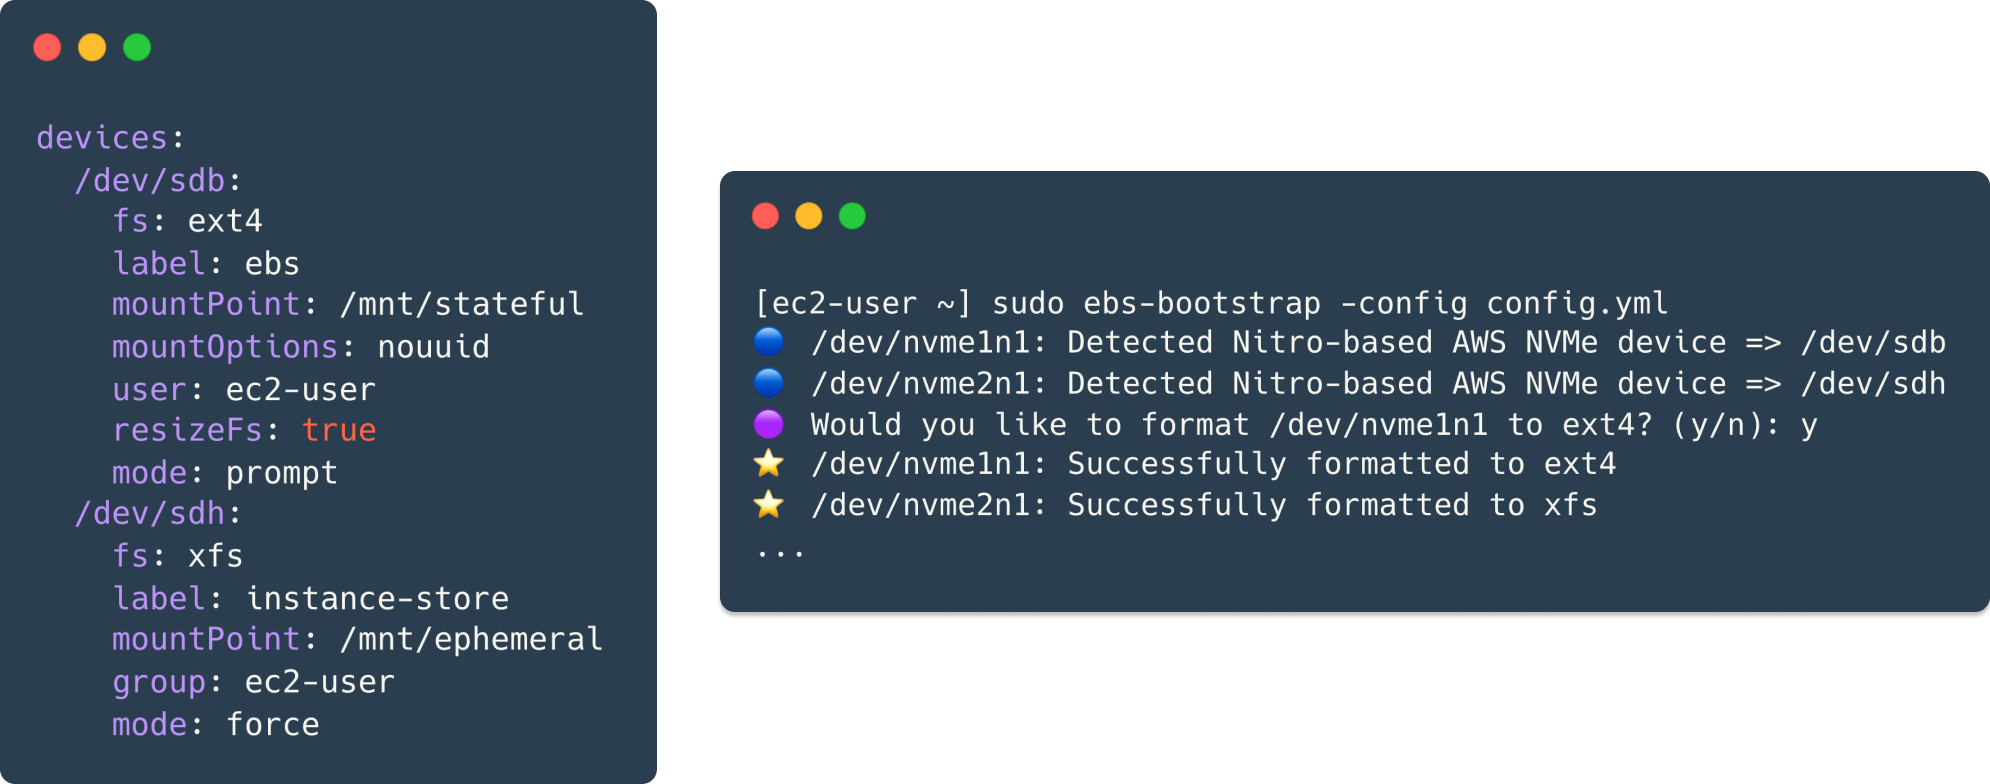
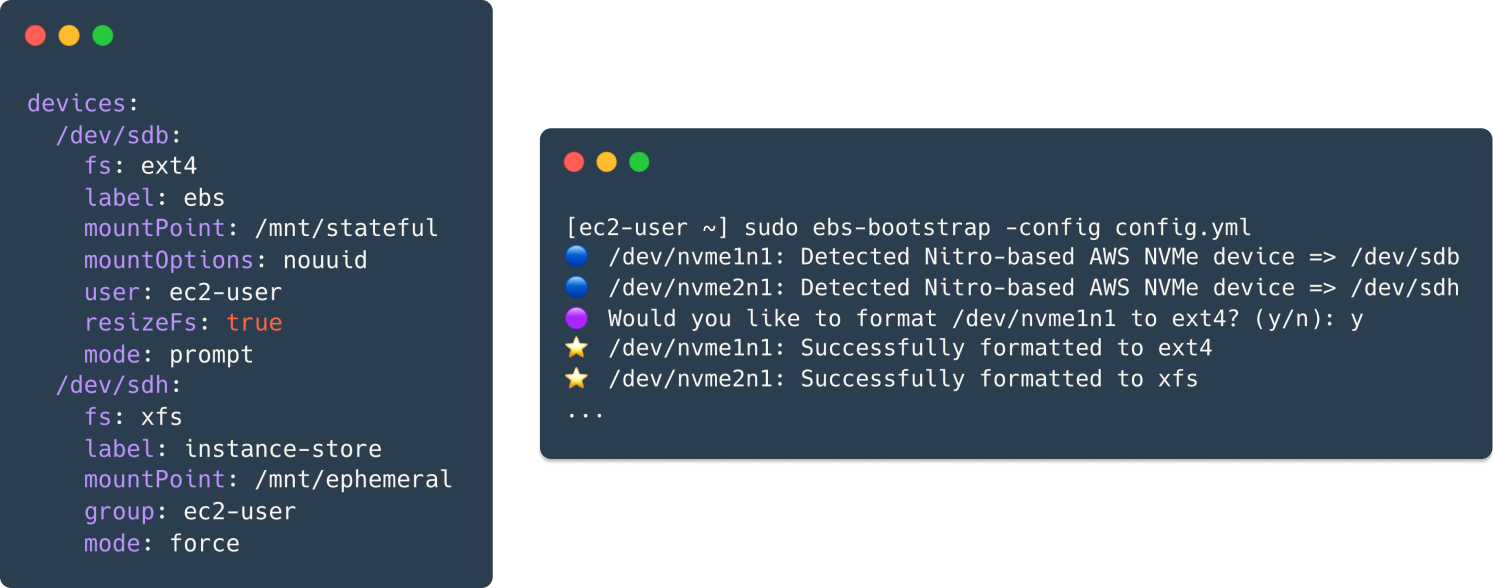
(docs): Grammatical corrections

diff --git a/internal/action/format.go b/internal/action/format.go
@@ -39,9 +39,9 @@ func (a *FormatDeviceAction) Prompt() string {
 }
 
 func (a *FormatDeviceAction) Refuse() string {
-	return fmt.Sprintf("Refused to format to %s", a.fileSystemService.GetFileSystem())
+	return fmt.Sprintf("Refused to format %s to %s", a.device, a.fileSystemService.GetFileSystem())
 }
 
 func (a *FormatDeviceAction) Success() string {
-	return fmt.Sprintf("Successfully formatted to %s", a.fileSystemService.GetFileSystem().String())
+	return fmt.Sprintf("Successfully formatted %s to %s", a.device, a.fileSystemService.GetFileSystem().String())
 }

diff --git a/internal/action/label_test.go b/internal/action/label_test.go
@@ -36,12 +36,12 @@ func TestLabelDeviceActionMessages(t *testing.T) {
 		{
 			Name:           "Refuse",
 			Message:        lda.Refuse(),
-			ExpectedOutput: "Refused to label to 'example'",
+			ExpectedOutput: "Refused to label /dev/xvdf to 'example'",
 		},
 		{
 			Name:           "Success",
 			Message:        lda.Success(),
-			ExpectedOutput: "Successfully labelled to 'example'",
+			ExpectedOutput: "Successfully labelled /dev/xvdf to 'example'",
 		},
 	}
 	for _, subtest := range subtests {

diff --git a/internal/action/format_test.go b/internal/action/format_test.go
@@ -36,12 +36,12 @@ func TestFormatDeviceActionMessages(t *testing.T) {
 		{
 			Name:           "Refuse",
 			Message:        fda.Refuse(),
-			ExpectedOutput: "Refused to format to ext4",
+			ExpectedOutput: "Refused to format /dev/xvdf to ext4",
 		},
 		{
 			Name:           "Success",
 			Message:        fda.Success(),
-			ExpectedOutput: "Successfully formatted to ext4",
+			ExpectedOutput: "Successfully formatted /dev/xvdf to ext4",
 		},
 	}
 	for _, subtest := range subtests {

diff --git a/internal/action/label.go b/internal/action/label.go
@@ -41,9 +41,9 @@ func (a *LabelDeviceAction) Prompt() string {
 }
 
 func (a *LabelDeviceAction) Refuse() string {
-	return fmt.Sprintf("Refused to label to '%s'", a.label)
+	return fmt.Sprintf("Refused to label %s to '%s'", a.device, a.label)
 }
 
 func (a *LabelDeviceAction) Success() string {
-	return fmt.Sprintf("Successfully labelled to '%s'", a.label)
+	return fmt.Sprintf("Successfully labelled %s to '%s'", a.device, a.label)
 }

diff --git a/README.md b/README.md
@@ -6,16 +6,16 @@
 
 * **Format** a file system
 * **Label** a file system
-* **Resize** a file system (when a threshold is reached)
+* **Resize** a file system
 * **Mount** a block device
-* **Ownership** and **Permissions** management of the mount point
+* Manage **ownership** and **permissions** of the mount point
 
 Currently, the following file systems are supported for querying and modification...
 
 * `ext4`
 * `xfs`
 
-Block device mappings can be [unpredictable](https://docs.aws.amazon.com/AWSEC2/latest/UserGuide/device_naming.html#device-name-limits) for AWS Nitro EC2 Instance types. `ebs-bootstrap` is equipped with the tools to recover the originally assigned block device mappings (`/dev/sd[a-z]`) from the dynamically allocated device names (`/dev/nvme[0-26]n1`) produced by **EBS** and **Instance Store** volumes. The consistent as-code management of block devices, is only possible by the ability of `ebs-bootstrap` to recover a device name that is stable across reboots and instance refreshes.
+Block device mappings can be [unpredictable](https://docs.aws.amazon.com/AWSEC2/latest/UserGuide/device_naming.html#device-name-limits) for AWS Nitro EC2 Instance types. `ebs-bootstrap` is equipped with the tools to recover the originally assigned block device mappings (`/dev/sd[a-z]`) from the dynamically allocated device names (`/dev/nvme[0-26]n1`) produced by **EBS** and **Instance Store** volumes.
 
 ## Build
 
@@ -45,21 +45,19 @@ curl -L \
 sudo install -m755 /tmp/ebs-bootstrap /usr/local/sbin/ebs-bootstrap
 ```
 
-## Modes
+## Documentation
 
-// TODO
-
-## Configuration
-
-// TODO
+<a href="https://github.com/reecetech/ebs-bootstrap/wiki" target="_blank">
+  <img src="https://img.shields.io/badge/github_wiki-%2523121011.svg?style=for-the-badge&logo=github&logoColor=white&color=%23aa82e6">
+</a>
 
 ## Use Cases
 
 ### `systemd`
 
-A potential way of operating `ebs-bootstrap` is through a `systemd` service. This is so we can configure it as a `oneshot` service type that executes after the file system is ready and after `clout-init.service` writes any config files to disk. The latter is essential as `ebs-bootstrap` consumes a config file that is located at `/etc/ebs-boostrap/config.yml` by default. 
+A potential way of operating `ebs-bootstrap` is through a `systemd` service. This is so we can configure it as a `oneshot` service type that executes after the file system is ready and `clout-init.service` writes any config files to disk. The latter is essential as `ebs-bootstrap` consumes a config file that is located at `/etc/ebs-boostrap/config.yml` by default. 
 
-`ExecStopPost=-...` con point towards a script that is executed when the `ebs-bootstrap` service exits on either success or failure. This is a suitable place to include logic to notify an individual that the configured devices failed their relevant healthchecks and the underlying application failed to launch in the process.
+`ExecStopPost=-...` can point towards a script that is executed when the `ebs-bootstrap` service exits on either success or failure. This is a suitable place to include logic to notify an individual that the configured devices failed their relevant healthchecks and the underlying application failed to launch in the process.
 
 ```ini
 [Unit]
@@ -79,17 +77,9 @@ ExecStopPost=-/etc/ebs-bootstrap/post-hook.sh
 WantedBy=multi-user.target
 ```
 
-```
-cat /etc/ebs-bootstrap/post-hook.sh
-#!/bin/sh
-if [ "${EXIT_STATUS}" = "0" ]; then
-    echo "🟢 Post Stop Hook: Success"
-else
-    echo "🔴 Post Stop Hook: Failure"
-fi
-```
+It is then possible to configure another `systemd` service to only start if the `ebs-bootstrap` service is successful. Certain databases support the ability to spread database chunks across multiple devices that need to be mounted to pre-defined directories with the correct ownership and permissions.
 
-It is then possible to configure another `systemd` service to only start if the `ebs-bootstrap` service is successful. Certain databases support the ability to spread database chunks across multiple devices that need to be mounted to pre-defined directories with the correct ownership and permissions. In this particular use-case, the database could be configured as a `systemd` service that relies on the `ebs-bootstrap.service` to succeed before attempting to start. This can be achieved by specifiying `ebs-boostrap.service` as a dependency in the `Requires=` and `After=` parameters.
+In this particular use-case, the database could be configured as a `systemd` service that relies on the `ebs-bootstrap.service` to succeed before attempting to start. This can be achieved by specifiying `ebs-boostrap.service` as a dependency in the `Requires=` and `After=` parameters.
 
 ```ini
 [Unit]
@@ -111,59 +101,67 @@ WantedBy=multi-user.target
 
 ### `cloud-init`
 
-By default, `ebs-bootstrap` consumes a configuration file located at `/etc/ebs-boostrap/config.yml`. `cloud-init` can be configured to write a config to this location, using the `write_files` module. Ensure that `ebs-bootstrap` is installed on your Instance via the process of baking it into your Golden AMI or downloading it early in the boot process, using the `runcmd` module.
+By default, `ebs-bootstrap` consumes a configuration file located at `/etc/ebs-boostrap/config.yml`. `cloud-init` can be configured to write a config to this location, using the `write_files` module. Ensure that `ebs-bootstrap` is installed on your Instance via the process of baking it into your Golden AMI or downloading it early in the boot process, using the `bootcmd` module.
 
 The advent of Instance Store provided Nitro-enabled EC2 instances the ability to harness the power of high speed NVMe. For a stateful workload like a database, you might want a fast and ephemeral space for temporary tables, alongside a stateful EBS volume declared in a different CloudFormation Stack. However, these Instance Store devices were ephemeral and had to be formatted and mounted on each startup cycle. 
 
 From the perspective of a **sceptical** Platforms Engineer, you do not mind a tool like `ebs-bootstrap` automating the task of formatting and mounting an ephemeral device. However, you personally draw the line on automation executing modifications to a stateful device, **without** the prior consent of a human. `ebs-bootstrap` empowers this Platform Engineer by allowing them to specify the execution mode, on a **device-by-device** basis: Instance Store (`force`) and EBS Volume (`healthcheck`)
 
 ```yaml
+Parameters:
+  LatestUbuntuAmi:
+    Type: AWS::SSM::Parameter::Value<AWS::EC2::Image::Id>
+    Default: /aws/service/canonical/ubuntu/server/20.04/stable/current/amd64/hvm/ebs-gp2/ami-id
+
 Resources:
   Instance:
     Type: AWS::EC2::Instance
-  ...
-  InstanceType: m5ad.large  # Nitro Instance Type
-  Volumes:
-    - Device: /dev/sdb  # EBS Volume (Stateful)
-      VolumeId: !ImportValue EbsVolumeId
-  BlockDeviceMappings:
-    - DeviceName: /dev/sdh  # Instance Store (Ephemeral)
-      VirtualName: ephemeral0
-  UserData:
-    Fn::Base64: !Sub
-      - |+
-        #cloud-config
-        write_files:
-          - content: |
-              devices:
-                /dev/sdb:
-                  fs: ${FileSystem}
-                  mountPoint: /mnt/ebs
-                  mountOptions: ${MountOptions}
-                  user: ec2-user
-                  group: ec2-user
-                  permissions: 755
-                  label: stateful
-                  mode: healthcheck
-                /dev/sdh:
-                  fs: ${FileSystem}
-                  mountPoint: /mnt/instance-store
-                  mountOptions: ${MountOptions}
-                  user: ec2-user
-                  group: ec2-user
-                  permissions: 755
-                  label: ephemeral
-                  mode: force
-            path: /etc/ebs-bootstrap/config.yml
-        runcmd:
-          - curl -L -o /tmp/ebs-bootstrap "${EbsBootstrapUrlPrefix}-$(uname -m)"
-          - install -m755 /tmp/ebs-bootstrap /usr/local/sbin/ebs-bootstrap
-        bootcmd:
-          - /usr/local/sbin/ebs-bootstrap
-      - FileSystem: ext4
-        MountOptions: defaults,nofail,x-systemd.device-timeout=5
-        EbsBootstrapUrlPrefix: >
-          https://github.com/reecetech/ebs-bootstrap/releases/download/latest/ebs-bootstrap-linux
+  Properties:
+    ...
+    ImageId: !Ref LatestUbuntuAmi
+    InstanceType: m5ad.large  # Nitro Instance Type
+    Volumes:
+      - Device: /dev/sdb  # EBS Volume
+        VolumeId: !ImportValue StatefulVolumeId
+    BlockDeviceMappings:
+      - DeviceName: /dev/sdh  # Instance Store
+        VirtualName: ephemeral0
+    UserData:
+      Fn::Base64: !Sub
+        - |+
+          #cloud-config
+          write_files:
+            - content: |
+                devices:
+                  /dev/sdb:
+                    fs: ${FileSystem}
+                    mountPoint: /mnt/ebs
+                    mountOptions: ${MountOptions}
+                    user: ubuntu
+                    group: ubuntu
+                    permissions: 755
+                    label: stateful
+                    mode: healthcheck
+                  /dev/sdh:
+                    fs: ${FileSystem}
+                    mountPoint: /mnt/instance-store
+                    mountOptions: ${MountOptions}
+                    user: ubuntu
+                    group: ubuntu
+                    permissions: 755
+                    label: ephemeral
+                    mode: force
+              path: /etc/ebs-bootstrap/config.yml
+          bootcmd:
+            - curl -L -o /tmp/ebs-bootstrap "${EbsBootstrapUrlPrefix}-$(uname -m)"
+            - install -m755 /tmp/ebs-bootstrap /usr/local/sbin/ebs-bootstrap
+          runcmd:
+            - /usr/local/sbin/ebs-bootstrap
+          mounts:
+            - [ "LABEL=stateful", /mnt/ebs, ${FileSystem}, "${MountOptions}", "0", "2"]
+        - FileSystem: ext4
+          MountOptions: defaults,nofail,x-systemd.device-timeout=5
+          EbsBootstrapUrlPrefix: https://github.com/reecetech/ebs-bootstrap/releases/latest/download/ebs-bootstrap-linux
 ```
 
 Assuming this is the very first launch, `ebs-bootstrap` would refuse to perform any modifications associated to the EBS device as it was assigned the `healthcheck` mode. However, we can temporarily override this behaviour with the `-mode=prompt` option. This allows the Platform Engineer to approve any suggested changes by `ebs-bootstrap`.
@@ -184,7 +182,8 @@ Assuming this is the very first launch, `ebs-bootstrap` would refuse to perform 
 🟢 Passed all validation checks
 ```
 
-By inspecting the output of `lsblk`, we can verify that `ebs-bootstrap` was able to recover the CloudFormation assigned block device mappings (`/dev/sdb` and `/dev/sdh`) from both EBS and Instance Store NVMe devices (`/dev/nvme1n1` and `/dev/nvme2n1`) and format/label/mount the respective devices
+By inspecting the output of `lsblk`, we can verify that `ebs-bootstrap` was able to recover the CloudFormation assigned block device mappings (`/dev/sdb` and `/dev/sdh`) from both EBS and Instance Store NVMe devices (`/dev/nvme1n1` and `/dev/nvme2n1`) and format/label/mount the respective devices.
+
 ```
 [~] lsblk -o NAME,FSTYPE,MOUNTPOINT,LABEL,SIZE
 NAME         FSTYPE MOUNTPOINT                  LABEL            SIZE
